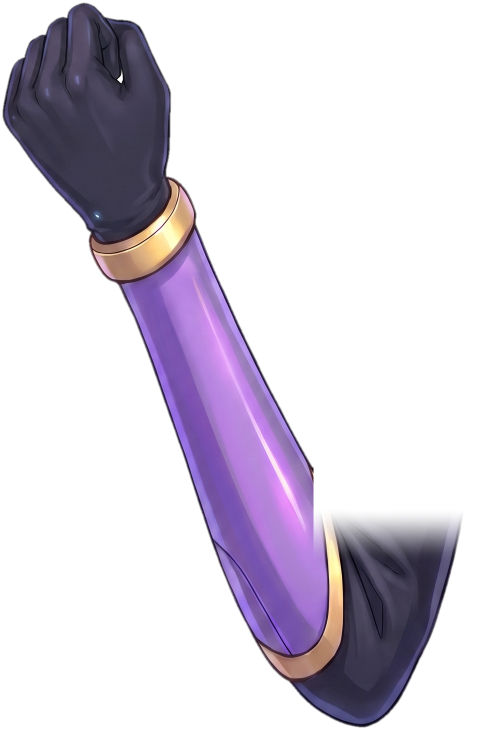
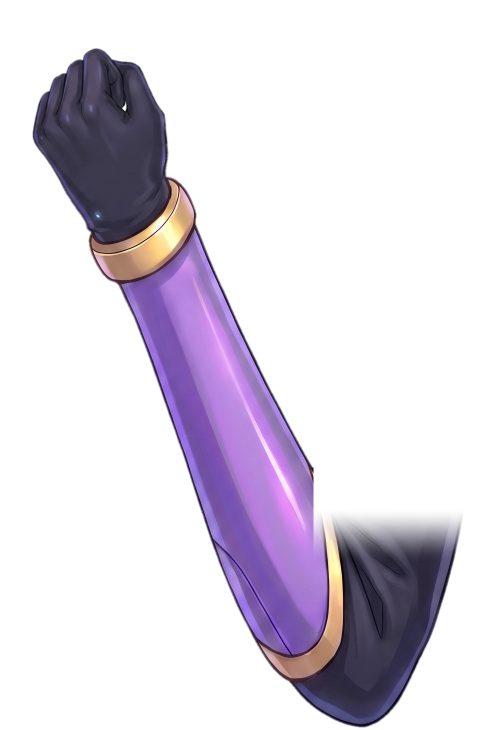
kohako-studio: 照れの 1 枚腕の拳だけを手首から縮め口元へ合わせる (BOXP-476 TD-06)
独立判定 (4b6f3fc) の『拳が顔に対して大きく口〜顎を占める』への是正。生成なしの加工で
素材の拳を手首の金輪から 0.78 倍へ縮め、腕・肘・輪は不変。支点を 20 上げ拳の上端を口の高さへ。

Changed region(s): [[0.0, 0.0, 0.375, 0.3014]]

diff --git a/apps/kohako-studio/web/src/live2d/gesture.ts b/apps/kohako-studio/web/src/live2d/gesture.ts
@@ -252,11 +252,13 @@ export function haltArmPoint(px: Vec, angle: number): Vec {
  * back は腕全体（切り口は肩の装甲の下へ隠れるようぼかした絵）で袖の表地の裏に、front は同じ絵・同じ位置で上腕の上部を除いた
  * アルファで、口元を隠すため顔の手前（描画の最後）に描く。box は生成画像の画素（ファイルは 0.5 倍）。
  * a97beafe（0.31 倍）は独立判定で拳が大きく鼻先まで覆ったため、0.28 倍に縮め拳を口の高さへ下げた（肩の支点も少し内上へ）。
+ * 4b6f3fc（0.28 倍）も独立判定で拳が顔に対して大きいとされたため、素材の拳だけを手首の輪から 0.78 倍へ縮め（生成なしの加工
+ * shrink-fist.mjs、腕・肘・輪は不変）、拳が口元に届くよう支点を 20 上げた。fistPx は縮めた後の拳の中心。
  */
 export const SHY_ARM = {
   back: 'shy-arm.png', front: 'shy-arm-front.png', box: [544, 236, 960, 1460] as const,
-  shoulderPx: [1343, 1000] as Vec, elbowPx: [1327, 1519] as Vec, fistPx: [717, 449] as Vec,
-  at: [726, 585] as Vec, scale: 0.28, angle: 0.15,
+  shoulderPx: [1343, 1000] as Vec, elbowPx: [1327, 1519] as Vec, fistPx: [740, 494] as Vec,
+  at: [726, 565] as Vec, scale: 0.28, angle: 0.15,
 }
 /** 照れの 1 枚腕の回転と沈み。入りは拳を胸の高さから口元へ持ち上げ、保持は小さく揺らし、戻りは下げながら消す。 */
 export function shyArmMotion(t: number, out = 0): { angle: number; drop: number } {

diff --git a/apps/kohako-studio/web/src/live2d/gesture.test.ts b/apps/kohako-studio/web/src/live2d/gesture.test.ts
@@ -443,10 +443,13 @@ describe('照れの 1 枚腕（BOXP-476 TD-06）', () => {
     expect(dist(hold, [574, 352])).toBeLessThan(60)
     expect(start[1]).toBeGreaterThan(hold[1] + 40)
   })
-  it('拳は鼻先を覆わない大きさと高さ（a97beafe の独立判定『拳が大きく鼻まで覆う』への是正）', () => {
-    // 0.31 倍・拳の中心 y≈391 では鼻先まで覆った。縮尺を下げ、拳の中心を口の高さより下へ置く。
+  it('拳は鼻先を覆わない大きさと高さ（a97beafe/4b6f3fc の独立判定『拳が大きく鼻まで覆う/顔の下半分を占める』への是正）', () => {
+    // 0.31 倍では鼻先まで覆い、0.28 倍でも拳が口〜顎を大きく占めた。素材の拳を手首から 0.78 倍へ縮め（shrink-fist.mjs）、
+    // 拳の上端（素材 727,332）が口の中心の高さ付近に来て鼻先へ届かないこと。
     expect(SHY_ARM.scale).toBeLessThanOrEqual(0.29)
-    expect(shyArmPoint(SHY_ARM.fistPx, shyArmMotion(1.5))[1]).toBeGreaterThan(400)
+    const top = shyArmPoint([727, 332], shyArmMotion(1.5))
+    expect(top[1]).toBeGreaterThan(352 - 20)
+    expect(top[1]).toBeLessThan(352 + 20)
   })
   it('肘は肩の下（体の外へ張り出さず、袖の下縁より下）に来る', () => {
     const e = shyArmPoint(SHY_ARM.elbowPx, shyArmMotion(1.5))
